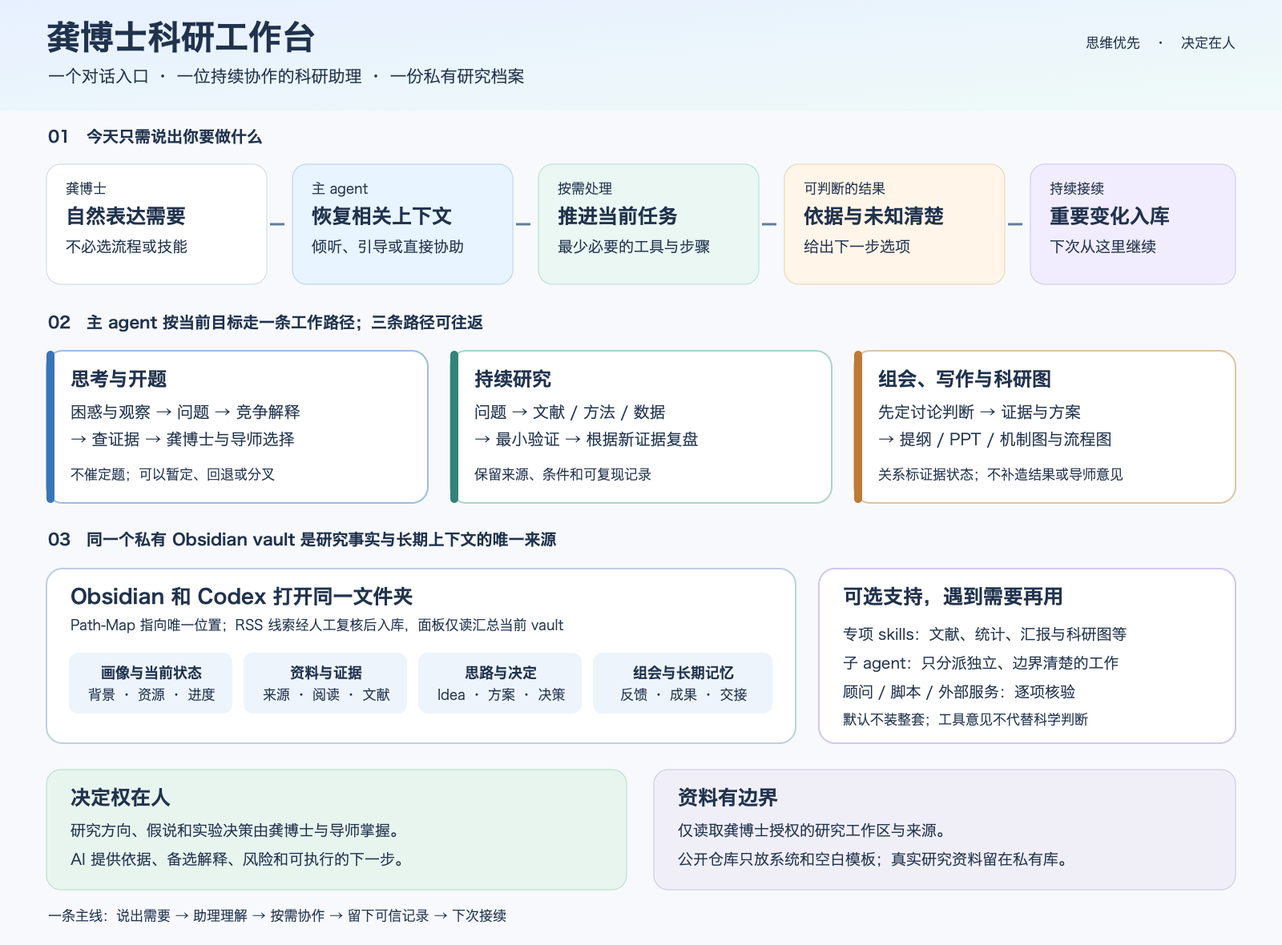
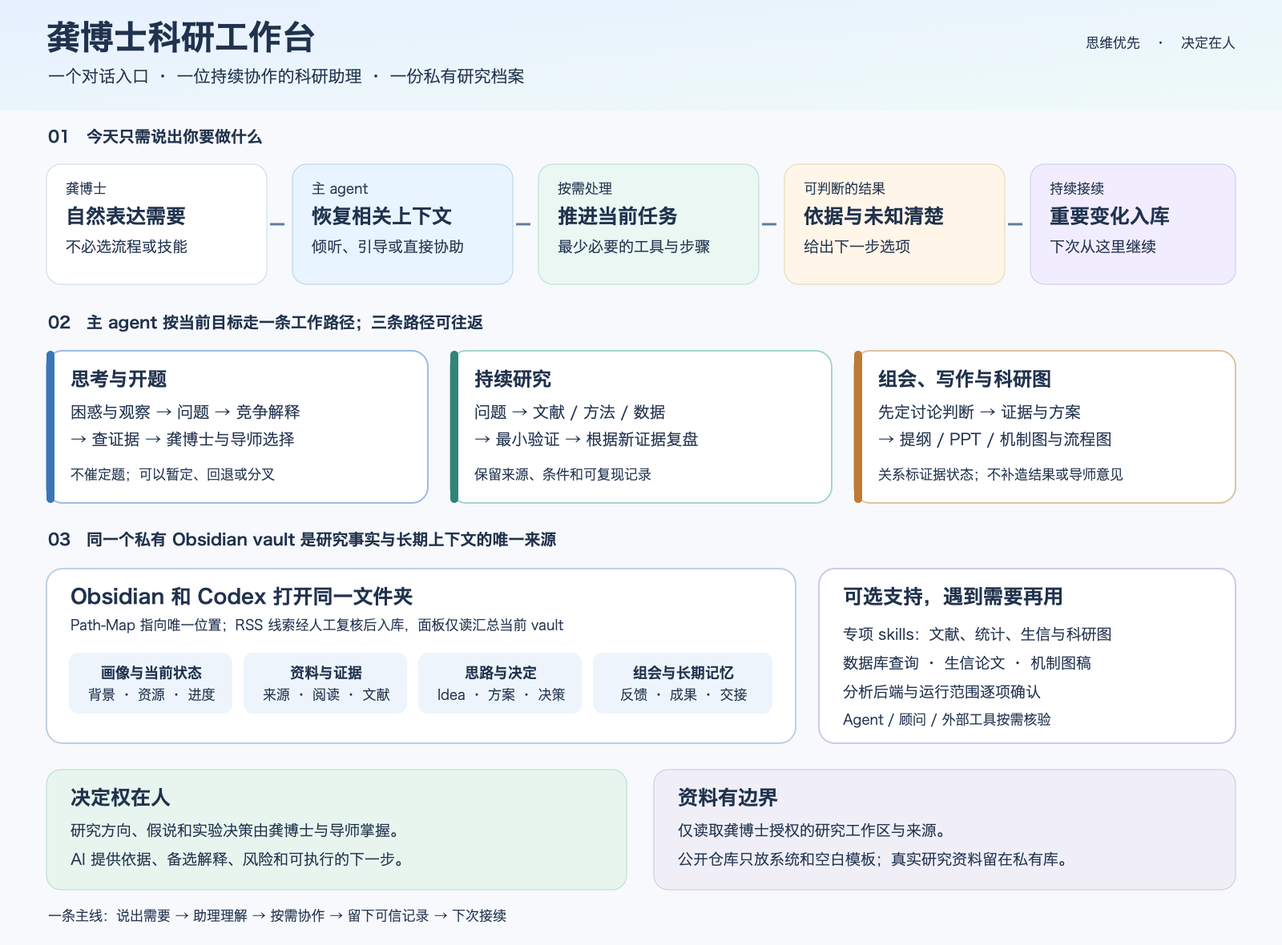
Add biomedical research assistant skills

Changed region(s): [[0.6562, 0.6712, 0.875, 0.7932]]

diff --git a/scripts/validate_release.py b/scripts/validate_release.py
@@ -74,13 +74,16 @@ def main():
         call(primary, ['--dest', conflict_dest, '--only', 'nature-reader'], ok=False)
         assert not (conflict_dest / 'nature-reader').exists()
         assert (shared / 'SKILL.md').read_text() == 'Existing customized support package'
-        # The main guide brings the local PPT/scientific-figure wrapper. The large
-        # upstream runtime is installed from a pinned official release only on demand.
+        # The main guide brings local scientific-figure and bioinformatics wrappers.
+        # Large Python/R/PPT runtimes remain separate and are installed only on demand.
         ppt_dest = tmp / 'research-guide-only'
         call(primary, ['--dest', ppt_dest, '--only', 'danta-proposal-guide'])
         assert {p.name for p in ppt_dest.iterdir()} == {
-            'danta-proposal-guide', 'danta-research-ppt'
+            'danta-proposal-guide', 'danta-research-ppt',
+            'danta-bioservices', 'danta-bio-paper-writing'
         }
+        assert (ppt_dest / 'danta-bioservices/SKILL.md').is_file()
+        assert (ppt_dest / 'danta-bio-paper-writing/references/workflow.md').is_file()
         bundled_installer = ppt_dest / 'danta-research-ppt/scripts/install_ppt_master.py'
         assert bundled_installer.is_file()
[1 lines of base64/hex data omitted]

diff --git a/README.md b/README.md
@@ -2,11 +2,11 @@
 
 **思维优先，决策在人。** 主 agent 是龚博士博士期间的持续科研助理与思考搭档：在她授权的工作区逐步了解资料和协作偏好，延续研究脉络，再通过倾听、证据和不同解释帮助她推进当下问题。
 
-本仓库是可下载的科研辅助工作区：包含龚博士的主引导 skill、固定版本科研 skills、PPT 与科研图工作流、PPT Master 官方固定版本安装器、女娲专家蒸馏 skill、可选专家角色配置和空白模板。它需要支持文件与工具的 AI 客户端运行，不是独立网页应用。PPT Master 不占用日常知识库空间，第一次需要真正制图时再按校验值下载到当前私有工作区。
+本仓库是可下载的科研辅助工作区：包含龚博士的主引导 skill、固定版本科研 skills、生物数据库查询与生信论文协作 skills、PPT 与科研图工作流、PPT Master 官方固定版本安装器、女娲专家蒸馏 skill、可选专家角色配置和空白模板。它需要支持文件与工具的 AI 客户端运行，不是独立网页应用。PPT Master 不占用日常知识库空间，第一次需要真正制图时再按校验值下载到当前私有工作区。
 
 ## 最快开始：下载一个知识库，打开两个应用
 
-龚博士已经使用 Obsidian，并已有 `GY` 知识库。建议先让 Codex 在龚博士自己的电脑上确认 Obsidian 当前打开的 vault 是否为 `GY`，再把插件安装到这个现有库；不另建 vault，也不要求迁移旧笔记。下载 [独立知识库 ZIP](https://github.com/youir/danta-research-workbench/releases/latest/download/danta-research-vault-v1.13.0.zip) 主要用于全新使用者。主引导、思维引导、PPT/科研图流程、RSS 信息源、管理面板与空白模板都已附带，无须先安装整套技能。第一次要求真正制作 PPT 或科研图时，Codex 才下载安装并配置所需工具。请复制 [本机部署与首次配置](12_本机部署与首次配置.md) 的启动语。
+龚博士已经使用 Obsidian，并已有 `GY` 知识库。建议先让 Codex 在龚博士自己的电脑上确认 Obsidian 当前打开的 vault 是否为 `GY`，再把插件安装到这个现有库；不另建 vault，也不要求迁移旧笔记。下载 [独立知识库 ZIP](https://github.com/youir/danta-research-workbench/releases/latest/download/danta-research-vault-v1.14.0.zip) 主要用于全新使用者。主引导、思维引导、生物数据库与生信写作专项技能、PPT/科研图流程、RSS 信息源、管理面板与空白模板都已附带，无须先安装整套技能。第一次要求真正制作 PPT 或科研图时，Codex 才下载安装并配置所需工具。请复制 [本机部署与首次配置](12_本机部署与首次配置.md) 的启动语。
 
 这是默认且唯一推荐的新项目入口。需要维护发行文件、离线安装第三方 skills 或运行校验时，维护者再使用完整工作台包。已有项目应继续使用其唯一私有工作区，不要为了采用新版本复制出第二套当前记录。
 
@@ -49,6 +49,7 @@
 ## 目录
 
 - [主引导技能](skills/danta-proposal-guide/SKILL.md) 与 [协作协议](skills/danta-proposal-guide/references/multi-agent.md)
+- [生物数据库查询技能](skills/danta-bioservices/SKILL.md) 与 [生信论文/科研图技能](skills/danta-bio-paper-writing/SKILL.md)
 - `.codex/agents/`：三个项目级角色配置
 - `vendor/skills/`：九个固定提交版本的第三方科研技能、女娲专家蒸馏 skill 及 nature-shared 支持包
 - `我的开题/`：空白模板，运行时请使用本地副本
@@ -67,6 +68,10 @@
 ## v1.13 Obsidian 信息源与管理面板
 
 增加 RSS/Atom 信息源插件和只读工作台面板。信息源支持手动或可选定时更新、来源分组、未读/收藏、搜索、OPML 导入导出与人工复核后存入知识库；面板汇总库内待跟进记录、RSS 线索和最近更新。两款插件面向现有 `GY` vault 部署，新空白 vault 模板也已包含插件。默认不订阅来源、不自动更新、不抓取全文、不上传笔记；部署时仅确定 vault 路径并安装插件，初始资料扫描必须另外取得龚博士本人授权。
+
+## v1.14 生物医学数据库、论文写作与科研图
+
+新增两个工作台原创 Codex skills：跨数据库查询/标识符映射，以及生信论文与分析协作。主引导依据自然语言任务按需调用；R/RStudio 环境检测不等于运行授权，分析后端与数据范围需分别确认。论文图稿接入既有 PPT Master/科研图流程，涵盖机制关系证据状态、组学流程和真实病理图像质检。没有复制 Codar 插件或许可不清的论文 skill 源码；数据库 Python 包、R 环境和 BioRender 仍需用户单独选择与配置。
 
 ## v1.10 易用性与架构收敛
 

diff --git a/11_GitHub扩展候选与试用标准.md b/11_GitHub扩展候选与试用标准.md
@@ -1,12 +1,13 @@
 # GitHub 扩展候选与试用标准
 
-**核对日期：2026-09-26。** 本页记录值得观察的项目，不表示它们已安装、已在龚博士设备验证或已经纳入发行包。龚博士的研究方向尚待本人确认，当前先维护轻量主线，不安装整套新技能。
+**核对日期：2026-09-26。** 本页记录值得观察的项目，不表示它们已在龚博士设备完成端到端验证。两个本工作台原创的生信专项技能已纳入发行包；BioServices 库、R/Python 环境及其他候选仍按任务配置。
 
 ## 当前候选
 
 | 候选 | 能力与适用阶段 | 本工作台判断 | 状态 |
 |---|---|---|---|
 | [scientific-agent-skills](https://github.com/yigityildiz0/scientific-agent-skills) | README 列出 17 项可供 Codex 等读取的科研 skills，包括科学问题选择、实验设计、学术报告、qPCR/引物规划、R、生信和单细胞流程。适合实际研究需要匹配到其中具体模块时评估。 | 有些主题与本工作台主引导、开题流程和研究库重叠。仓库声明不同 skill 各自保留上游许可；不能根据仓库层 README 推断所有模块都可再分发。对刚出现的小型项目，要检查确切提交、目标 skill 全文、许可和依赖。可先选一个问题选择或研究设计 skill 做隔离比较，不下载整包。 | **观察中；未打包、未安装** |
+| [K-Dense BioServices skill](https://github.com/K-Dense-AI/scientific-agent-skills/tree/49c6e97775eaa18ba791bebe23162a70ae601c18/skills/bioservices) | BioServices Python 接口覆盖 UniProt、KEGG、ChEMBL、Reactome 等数据库与跨库 ID 查询。 | 用途由工作台原创 `danta-bioservices` 适配；目标上游 SKILL.md 标 GPLv3，但仓库 LICENSE.md 是 MIT，因此不复制上游文件。运行时包按需独立安装。 | **用途参考；原创适配已接入** |
 | [OpenAI Life Science Research Plugin](https://github.com/openai/plugins/tree/main/plugins/life-science-research) | 生命科学数据库检索和路由，覆盖遗传学、表达、通路、蛋白结构、临床证据和公开数据集；仓库说明面向 Codex。 | 源码目录可公开访问，但该插件的 `.codex-plugin/plugin.json` 标注许可证为 **Proprietary**，因此不可称作开源项目，也不能复制进本工作台发行包。适合遵守其许可与隐私条件、并且 Codex 环境支持时另行评估。它是公共数据库研究助手，不会替代切片判读或实验。 | **只记录为外部产品；不分发** |
 | [Nature-Paper-Skills](https://github.com/Boom5426/Nature-Paper-Skills) | 面向 Nature 系列投稿的论文结构、图文对齐、统计报告、图形检查和投稿前审查。 | 本工作台已有 Nature 阅读能力；该项目主要补论文后期写作与提交，和开题思维不是同一阶段。未来进入稿件阶段时按具体缺口挑选，注意官方安装器有覆盖/升级行为，须先审查脚本与现有版本。 | **后期观察；非默认项** |
 | [PathAgent](https://github.com/G14nTDo4/PathAgent) | 研究全视野病理图像（WSI）的 agent 式多步证据检索与尺度选择。 | 仅当龚博士研究数字病理/WSI 时有直接参考价值；这是研究代码，不是通用 Codex skill。 | **方向待确认** |
@@ -25,6 +26,10 @@
 3. 在隔离副本用公开或虚构材料做一个窄任务。保留提问、引用/运行记录、预期结果与人工核对，不把示例写入龚博士的研究画像。
 4. 用实际节省的步骤、来源核查质量、可复现性、依赖负担、隐私与决定权来比较。不仅看 README 的自报基准或“全自动”演示。
 5. 仅当结果清楚改善工作、许可允许分发、安装安全且能在 Codex 实测后，才考虑作为**可选模块**固定提交并打包。默认安装仍以主 agent 和私有知识库为主。
+
+### 本工作台已接入：生物数据库与生信论文写作
+
+截图中的两项能力现已作为 Codex 专项 skills 接入：`danta-bioservices` 与 `danta-bio-paper-writing`。它们由主引导依赖安装、按任务路由调用，采用本工作台自己的授权和证据规则。前者针对数据库查询/ID 映射；后者针对稿件协作、分析决定记录及生物医学图稿。BioServices 与截图里的 Codar 产品仍是上游/外部服务，未声称本仓库包含 Codar 官方插件。来源与许可边界见 [03_Skills来源与边界.md](03_Skills来源与边界.md#生物数据库与论文写作扩展-v114)。
 
 ## 研究方向明确后怎么选
 

diff --git a/skills/danta-bio-paper-writing/references/workflow.md b/skills/danta-bio-paper-writing/references/workflow.md
@@ -1,0 +1,42 @@
+# 生物医学论文协作流程
+
+## 阶段 1：接收材料并明确边界
+
+确认本轮交付目标（开题文字、论文某章、投稿稿件、分析计划或图稿）、受众/格式要求、截止日期和可使用资料。若涉及新目录或批量读取，按工作台授权规则先取得龚博士本人对路径、文件类型、用途和摘要保存位置的明确授权。先列材料清单、拟阅读深度及未知；不要直接扫描全盘。
+
+按实际状态建立“研究问题—数据/样本—方法—结果—解释—引文”映射。用“已完成 / 计划中 / 待核实”标记，优先复用知识库中经本人确认的记录。
+
+## 阶段 2：确认分析环境与决定权
+
+当任务涉及计算分析或复现分析时：
+
+1. 检查 R、Rscript、RStudio 和项目锁定文件是否存在；仅报告检测结果，不自动安装软件包、打开数据或运行分析。
+2. 提出清楚的后端建议及理由（如项目现有 R/RStudio 环境优先；不符合目标时解释原因），输出 `backend_decision.json` 草案供龚博士选择。
+3. 只有收到对后端的明确选择后，才记录已选择；只有另获运行授权后，才读入指定数据并执行分析。`analysis_approval.json` 记录数据路径/范围、分析目的、输出位置、外部联网与隐私约束、获准动作和时间。授权不延伸到未提及目录、其他分析或外传。
+4. R 不适用或不可用时说明限制。建议 Python 替代前解释差异并询问；不得悄悄换后端。
+5. 每次运行记录脚本、环境/版本、命令、输入文件、输出及错误日志。失败即如实报告；不能依据预期生成“合理结果”。
+
+分析环境输出约定见 [analysis-records.md](analysis-records.md)。
+
+## 阶段 3：写作与证据核查
+
+- 先给出与问题和实际材料相称的结构/章节提纲，并指出证据足够、证据冲突和缺失的位置。
+- 方法应准确描述实际做过的流程；计划方案用将来式/计划标签。
+- 结果仅陈述实际观测到的数据，解释放在讨论；按研究设计限制推论范围。
+- 引用逐条核验作者、题名、年份、DOI/PMID、来源链接和所支持的主张。未核实的引用单独标注，不猜测补全。
+- 生信分析按需记录队列来源与下载日期、样本纳排、样本层级划分、预处理、批次、代码/参数、软件包版本、统计检验、效应量和限制。
+- 组学/机器学习须审查信息泄漏与患者/样本层级拆分；通路富集和数据库交集属于假说线索，不直接视为机制验证。
+
+## 阶段 4：科研图稿
+
+1. 先给图的论点、面板计划与每个箭头/关系的证据状态，请龚博士确认关键生物关系。
+2. 制作要求触发 `danta-research-ppt`；优先交付可编辑 PPTX/SVG 和源文件，并保留上游许可与素材出处。图稿只表示证据允许的主张，不增添尚未验证的节点。
+3. 病理影像使用获准、匿名化的真实图像；组学曲线/统计图由实际数据和脚本生成，不用示意图冒充分析结果。
+4. 检查文字可读性、颜色/线型语义、图例、比例尺、单位、样本量、统计方法和图注独立性。留待作者核实的部分显式标记。
+5. BioRender 等平台可以作为人工编辑选项；在工作台没有已验证的集成时只给图稿结构/素材清单，不声称已生成平台原生文件。
+
+## 阶段 5：稿件输出与确认
+
+以龚博士指定的稿件为唯一当前稿。需要从头启动论文工作流时，可记录 `manuscript_approval.json`，包含题目/目标、拟处理材料、格式、稿件真源、获准生成内容及待作者决定事项；未获明确批准前仅交付提纲或样稿。引文格式由作者/目标期刊决定；不默认 APA、Nature 或任意刊物要求。
+
+她明确要求 LaTeX 时创建/更新 `mainbody.tex`；明确要求 Word 时生成可编辑 `manuscript.docx`。同时交付 DOCX/TeX 时标注哪一份为主稿及同步日期，避免无声分叉。保留图源和真实运行记录。每次交付附简短变更说明、待作者核实问题和下一步。

diff --git a/skills/danta-bio-paper-writing/SKILL.md b/skills/danta-bio-paper-writing/SKILL.md
@@ -1,0 +1,33 @@
+---
+name: danta-bio-paper-writing
+description: 生物医学与生信论文的证据驱动写作、分析准备、稿件结构和科研图工作流。用户讨论论文、结果、方法、组学分析、稿件/开题文字，或希望把机制与实验流程做成可编辑图时使用。先理解资料和写作目标，不编造结果或引用。
+---
+
+# 生信论文与科研图助手
+
+作为龚博士的可选专项写作能力，承接她已经确定的问题与实际证据。它服务于写作和研究判断，不替她选择课题、决定分析后端、运行分析或认可稿件。按任务读取 [workflow.md](references/workflow.md)，仅在需要时创建该文件列出的审批记录和交付物。
+
+## 触发范围
+
+- 生物医学/生信论文的提纲、方法、结果、讨论、摘要与逐章稿件。
+- GEO、TCGA、ArrayExpress 或本地组学数据的分析方案/结果整理。
+- 论文里的机制图、实验流程图、组学分析流程、图形摘要、结果图版。
+
+组会/PPT/可编辑科研图同时遵循 `danta-research-ppt` 的证据与图稿质检规则。分析方案的统计审查按需路由到 `statistical-analysis`；论文证据梳理按需调用 `literature-review`、`codex-research` 或 `nature-reader`。主引导仍是单一入口。
+
+## 必须守住的边界
+
+- 写作前区分研究问题、数据来源、已完成分析、计划分析、结果和解释；计划不能写成已完成，相关性不能改写成因果。
+- 所有数字、样本、纳排标准、差异方向、P 值、图表和引文必须能回溯至用户提供的证据或可核查来源。材料缺失时使用显式占位符并说明缺口。
+- 不伪造作者、DOI、期刊分区、实验记录、伦理批准、导师认可、分析结果或软件运行记录。
+- 临床/病理资料默认可能含敏感信息；写作前确认批准的资料范围与处理方式。除非龚博士明确授权，不将本地材料发送给外部模型、数据库或其他服务。
+- 不替龚博士确认作者顺序、投稿目标、数据开放、利益冲突声明或稿件定稿；需要她决定的地方以待确认标出。
+- R/RStudio 可用性应先检测并报告；后端选择、环境安装和分析执行分开征询。只有用户同意后才按选定路径行动。Python 仅在 R 不适用/不可用且获同意时作为替代。
+
+## 可编辑科研图
+
+当龚博士提出要制作图，或论文讨论后图稿会明显帮助她解释机制/研究流程时，先确认图要回答的问题、目标读者、已知关系及每条关系的证据状态。随后遵循 `danta-research-ppt` 与 PPT Master 流程制作可编辑矢量图或 PPT 图形；根据图类型组织“研究对象/样本—实验或分析步骤—读出/终点—结果/假说”的层级。病理图像必须来自真实且获准使用的切片/显微图，保留比例尺、染色、病例/样本层级和匿名化；不生成或修饰造成误导的病理证据。机制图明确区分已证实、推断、待验证及计划关系；图例说明缩写、方向、颜色/线型和来源。可提供适用于 BioRender 等平台的结构化图稿清单，但不宣称已操作该平台、复制其资产或拥有其授权。
+
+## 交付
+
+写作过程先交付可讨论的提纲、证据缺口和一段样稿，再按龚博士意见扩写。用户明确要求文件时，使用其指定格式；LaTeX 与 DOCX 可并行维护时先确认单一稿件真源。逐章写作计划见 [workflow.md](references/workflow.md)。

diff --git a/skills/danta-bioservices/SKILL.md b/skills/danta-bioservices/SKILL.md
@@ -1,0 +1,32 @@
+---
+name: danta-bioservices
+description: 生物医学研究中的跨数据库查询与 ID 映射。需要查 UniProt、KEGG、Reactome、ChEMBL 等生物数据库，核对基因/蛋白/通路/化合物标识，或整理可复现的数据来源时使用；不会仅凭数据库注释推断病理机制。
+---
+
+# 生信数据库助手
+
+帮助龚博士把一个明确的生物学问题转换为可追溯的数据库查询。优先使用无需安装的官方网页/API；只有多库批量整合确有必要、且环境已获同意时，才建议使用 Python `bioservices`。查询前明确物种、数据库、标识符类型、字段、时间/版本要求和输出格式；如果不同选择会改变结果，只追问最关键的一项。
+
+## 工作方式
+
+1. 复述查询对象和目的，区分“检索数据库记录”“跨库映射”“计算分析”三类工作。
+2. 选用最少且合适的数据源。可按任务考虑 UniProt、NCBI Gene、Ensembl、KEGG、Reactome、GO、ChEMBL、PubChem、ArrayExpress/GEO 等；具体可用性和服务条款以当时官方页面为准。
+3. 保存查询日期、物种、原始输入、数据库/服务、查询条件、返回 ID 与结果链接。ID 映射保留源 ID 和目标 ID，不把一对多/未映射结果压成单值。
+4. 解释命中、未命中、歧义与数据库间不一致；将数据库注释视为可追踪的证据线索，回到原始论文、实验数据或病理材料确认其适用范围。
+5. 交付机器可读表格时包含稳定 ID、名称、物种、来源数据库、访问日期、来源链接和状态。无结果时记录查询条件与服务错误，不推测补齐。
+
+## BioServices 使用边界
+
+- 需要程序化跨库访问时，先给出查询计划和拟访问的外部服务；查询公开数据时避免发送患者标识、未公开序列或未发表结果。
+- 用户同意安装后，在项目隔离环境安装 `bioservices`，不改全局 Python 环境。安装与联网访问分别说明；不因技能安装自动安装依赖。
+- NCBI BLAST 等服务若要求联系邮箱或有速率/使用条款，先让用户确认配置和用途；凭证放环境变量，不写入仓库、笔记或输出。
+- 将服务返回值、请求时间和软件版本纳入结果记录。服务失败、弃用或版本不兼容时报告原始错误并选择官方 API/网页替代，不伪造查询已完成。
+- 数据库覆盖与释义随版本变化；引用应尽量指向数据库条目和其引用的原始研究，而不只引用此技能。
+
+## 输出
+
+按任务轻量交付：查询计划、结果表、ID 对照表或问题清单。模板见 [query-record.csv](assets/query-record.csv)。不要求每次生成长综述，也不替代实验确认或龚博士的判断。
+
+## 上游参考与许可
+
+本技能由工作台作者独立编写，受本仓库许可约束；**没有复制或再分发** K-Dense `bioservices` 技能的文本、脚本或 references。实现思路参考其公开的 BioServices 数据库查询方向。若要使用上游技能原文，必须单独核对其 GPLv3 条款。仓库文档见 [上游来源与边界](../../03_Skills来源与边界.md#生物数据库与论文写作扩展)。

diff --git a/08_完整体系架构.md b/08_完整体系架构.md
@@ -38,7 +38,7 @@ flowchart LR
 | 私有 Obsidian vault | 唯一权威研究档案：资料来源、文献证据、想法、方案、决策、组会、输出与长期记忆 | Codex 与 Obsidian 打开同一文件夹；Path-Map 指向各类记录的唯一位置 |
 | RSS 信息源插件 | 收集龚博士主动添加的 RSS/Atom 线索，支持分组、搜索、未读/收藏和 OPML | 自动更新默认关闭；只有她主动保存的条目才写入收件箱，摘要待人工复核 |
 | 工作台面板插件 | 展示 GY 当前 vault 中的记录数、待跟进项、RSS 待复核线索、最近更新与目录索引 | 只读当前库，不扫描库外文件、不联网、不代替原始索引 |
-| 专项支持 | 文献检索、论文精读、统计、组会汇报、科研流程图/机制图/实验设计图、女娲顾问等具体方法 | 按任务调用；图稿证据审查由主引导协调，PPT Master 按需下载安装到当前工作区 |
+| 专项支持 | 文献检索、论文精读、统计、生物数据库查询/ID映射、生信论文协作、组会汇报、科研流程图/机制图/实验设计图、女娲顾问等具体方法 | 按任务调用；分析后端和运行授权分开确认，科研图稿证据审查由主引导协调，PPT Master 按需下载安装到当前工作区 |
 | 子 agent | 处理可独立并行的检索或批判任务 | 可选；主 agent 核对、合并，多个意见不等于证据 |
 
 ## 唯一的研究档案
@@ -49,7 +49,7 @@ flowchart LR
 
 ## 专项工具怎么进入
 
-安装主引导后即可开始思考、资料梳理和知识库维护。外部科研 skills、插件、MCP、脚本、数据包和计算环境都属于可选能力：主 agent 先判断它们能否解决当前问题，再核查兼容性、许可、隐私和依赖。用户没有具体研究方向前，不默认安装庞大技能包。见 [GitHub 扩展候选与试用标准](11_GitHub扩展候选与试用标准.md)。
+安装主引导后即可开始思考、资料梳理和知识库维护。主引导依赖中现含工作台原创的生物数据库与生信论文技能，遇到相应问题才路由；数据库 Python 包、R 环境、图稿引擎等运行依赖仍按任务核查兼容性、许可、隐私并另行配置。其他外部科研 skills、插件、MCP、脚本和数据包均属于可选能力。见 [GitHub 扩展候选与试用标准](11_GitHub扩展候选与试用标准.md)。
 
 ## 决策与质量边界
 

diff --git a/01_安装与环境指南.md b/01_安装与环境指南.md
@@ -12,9 +12,11 @@
 python3 scripts/install_skills.py --only danta-proposal-guide
 ```
 
-这里的“安装”会复制主引导和科研 PPT/图稿工作流。PPT Master 完整技能包约 62 MB，不跟着日常库安装；第一次真的要求生成 PPT 或科研图时，Codex 使用随包安装器从固定官方 Release 下载，并校验 SHA-256 后安装到当前私有工作区。无需提前安装整套技能或配置。
+这里的“安装”会复制主引导、科研 PPT/图稿工作流和生物医学专项技能。PPT Master 完整技能包约 62 MB，不跟着日常库安装；第一次真的要求生成 PPT 或科研图时，Codex 使用随包安装器从固定官方 Release 下载，并校验 SHA-256 后安装到当前私有工作区。无需提前安装整套第三方技能或配置生物信息学运行依赖。
 
 默认安装目录为 `$CODEX_HOME/skills`，未设置时为 `~/.codex/skills`。安装后在下一轮对话调用 `$danta-proposal-guide`。如果当前客户端仍未发现，可新建会话；也可直接要求 AI 阅读包内的 SKILL.md 继续协作。
+
+主引导依赖会一并安装两个工作台编写的生物医学专项 skill：`danta-bioservices`（跨库查询与标识符映射）和 `danta-bio-paper-writing`（生信论文、分析审批、科研图）。它们只在任务相关时触发；`bioservices` Python 包、R 包或制图依赖均不会随 skill 自动安装。需要查询时先由 Codex 说明联网范围；需要分析时另行确认后端、运行授权和数据范围。
 
 ## B. 手动安装（可选）
 

diff --git a/skills/danta-proposal-guide/references/skill-routing.md b/skills/danta-proposal-guide/references/skill-routing.md
@@ -8,7 +8,7 @@
 
 先明确本轮要推进哪个问题，再决定是否调用技能。上游的头脑风暴、评估和写作流程应服务于人的思考；有分歧时保留分歧，不能用自动排序替代她的决定。
 
-本包提供独立的主引导技能和九个固定版本的 GitHub 科研技能、女娲蒸馏技能和一个共享支持包。先核对安装日志/环境报告；能找到文件不代表全部脚本依赖已配置。
+本包提供独立的主引导技能、固定版本第三方科研 skills、工作台原创生物医学专项 skills、女娲蒸馏技能和共享支持包。先核对安装日志/环境报告；能找到文件不代表全部脚本依赖已配置。
 
 | 当前任务 | 读取的上游技能 |
 |---|---|
@@ -23,6 +23,8 @@
 | 终点与统计分析规划 | statistical-analysis |
 | 研究目标、论证结构和进度 | research-grants |
 | 用户自己的方案与草稿评审 | peer-review |
+| 跨库查询蛋白、基因、通路或化合物信息、ID 映射 | danta-bioservices（先确定物种/标识与数据源；只把数据库结果当作待核实线索） |
+| 生信论文写作、分析方案/结果整理或生物医学科研图稿 | danta-bio-paper-writing（分析后端与运行分别确认；科研图同时走 danta-research-ppt） |
 
 优先按任务读对应 SKILL.md，再读其引用的必要文件；不要一次加载整套手册。不需要强制创建子代理。上游如提到本包未附带的其他技能或 API，先核查是否确实需要，不能说已安装。
 

diff --git a/skills/danta-bio-paper-writing/references/analysis-records.md b/skills/danta-bio-paper-writing/references/analysis-records.md
@@ -1,0 +1,52 @@
+# 环境与分析授权记录
+
+这些记录用于区分机器状态、研究者决定和具体执行授权。JSON 是记录模板，不会因创建而表示“已经批准”。
+
+## `r_environment.json`
+
+```json
+{
+  "checked_at": "",
+  "rscript_found": false,
+  "r_version": null,
+  "rstudio_found": false,
+  "project_lockfile": null,
+  "check_scope": "仅检测可执行文件与项目配置；未运行分析",
+  "notes": ""
+}
+```
+
+## `backend_decision.json`
+
+```json
+{
+  "status": "pending_user_choice",
+  "question": "",
+  "options": [],
+  "assistant_recommendation": null,
+  "researcher_choice": null,
+  "decided_at": null,
+  "notes": "建议不等于选择"
+}
+```
+
+## `analysis_approval.json`
+
+```json
+{
+  "status": "not_approved",
+  "approved_by": null,
+  "approved_at": null,
+  "data_paths_or_scope": [],
+  "analysis_purpose": null,
+  "approved_actions": [],
+  "output_location": null,
+  "external_services_allowed": false,
+  "privacy_constraints": [],
+  "expires_or_recheck_on_scope_change": true
+}
+```
+
+## 引文与稿件审批
+
+采用 `citation_preference.json` 记录作者选择的格式与目标期刊，采用 `manuscript_approval.json` 记录稿件范围与获准生成内容。两者仅在论文任务确有需要时创建，不要求她预填固定问卷。决策记录列明来源、确认人和日期；助手建议不能写作用户选择。

diff --git a/CHANGELOG.md b/CHANGELOG.md
@@ -1,3 +1,15 @@
+# v1.14.0 — 2026-09-26
+
+- 增加 `danta-bioservices` 跨库查询/ID 映射和 `danta-bio-paper-writing` 生信论文协作两个 Codex skills，随主引导依赖安装并按任务调用。
+- 分开 R/RStudio 环境探测、后端选择、分析运行授权与稿件审批；保留证据来源、数据范围、隐私和可复现运行记录。
+- 将生物医学图稿接入 PPT Master 工作流，增加机制证据状态、组学流程图和真实病理图像/统计图质检要求。
+- 因 BioServices 上游技能标注 GPLv3、论文写作候选仓库无可再分发许可，本工作台独立编写集成技能，只保留来源链接与边界说明，不复制其文件。
+
+# v1.13.0 — 2026-09-26
+
+- 新增 Obsidian RSS/Atom 信息源插件与科研工作台只读管理面板，支持人工复核入库。
+- 完善本地 GY vault 部署说明、首次授权扫描边界与架构图。
+
 # v1.12.0 — 2026-09-26
 
 - 将科研 PPT 制作引擎切换为固定上游 PPT Master v6.6.0；官方 release ZIP 按 SHA-256 校验并在首次制图时安装到当前私有工作区，不加重默认知识库。
